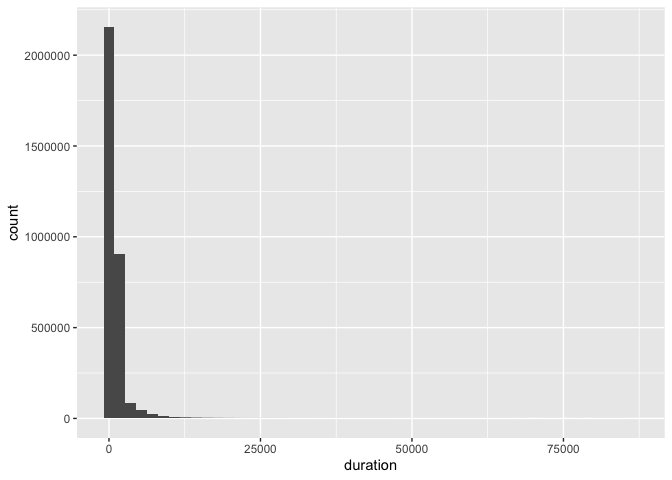
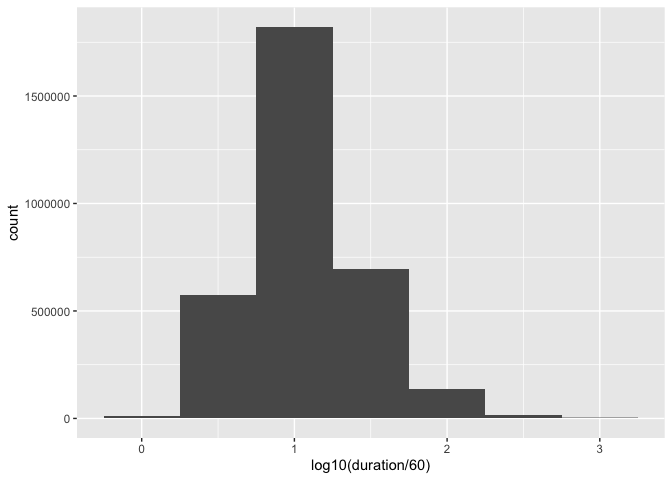
Revise hw3 solution with "duration" explanation

diff --git a/src/hw/hw03-agg/hw03-wrangling-solutions.md b/src/hw/hw03-agg/hw03-wrangling-solutions.md
@@ -31,15 +31,58 @@ There are 3255678 rides in this dataset.
 Exercise 2
 ----------
 
-`duration` is probably measured in seconds, because most rides are less
-than 30 \* 60 seconds (30 minutes), but some are as long as 86,355,
-which is most of a day (86,400 seconds).
+`duration` is probably measured in seconds.
+
+    median_ride_duration <- median(rides$duration)
+
+1.  The median of `duration` is 658.
+2.  If duration were measured in seconds, the median ride duration would
+    be 658 sec / (60 sec/min) = 10.97 minutes (i.e., half of all rides
+    would be shorter than 11 minutes).
+3.  If duration were measured in the next smaller unit (milliseconds),
+    the median ride length would be 0.658 seconds.
+4.  If duration were measured in the next larger unit (minutes), half of
+    all rides would be longer than 658 min / (60 min / hr) = 10.97
+    hours.
+5.  Of these possibilities, 10 minutes is the most plausible, given my
+    own experience riding bikes (1 sec isn’t long enough to get
+    anywhere, and 11 hours is a very long ride).
+6.  Since interpreting duration as being reported in seconds gave the
+    most realistic median ride duration when compared with both the next
+    smaller and larger common units, I infer that seconds is the most
+    plausible unit.
+
+Some rides are as short as 60 seconds (1 minute), and others are as long
+as 86,355, which is most of a day (86,400 seconds).
+
+We can also visualize the order of magnitude of duration using a
+histogram of the base-10 log of the duration. We’ll go ahead and divide
+by 60 so the scale is in minutes:
 
     rides %>% 
-      ggplot(aes(x = duration)) +
-        geom_histogram(binwidth = 30 * 60)
+      ggplot(aes(x = log10(duration / 60))) +
+        geom_histogram(binwidth = .5)
 
 ![](hw03-wrangling-solutions_files/figure-gfm/duration-hist-1.png)<!-- -->
+
+or a boxplot drawn on a log scale:
+
+    ggplot(rides, aes(x = duration / 60)) +
+      geom_boxplot() +
+      scale_x_log10()
+
+![](hw03-wrangling-solutions_files/figure-gfm/duration-boxplot-1.png)<!-- -->
+
+Let’s also look at the quantiles (the edges of the box) directly:
+
+    quantile(rides$duration / 60, c(.25, .75))
+
+    ##   25%   75% 
+    ##  6.65 18.20
+
+If we assume that duration is measured in seconds, both graphs show us
+that the bulk of rides were between 6 and 20 minutes, which seems very
+reasonable.
 
 Exercise 3
 ----------
